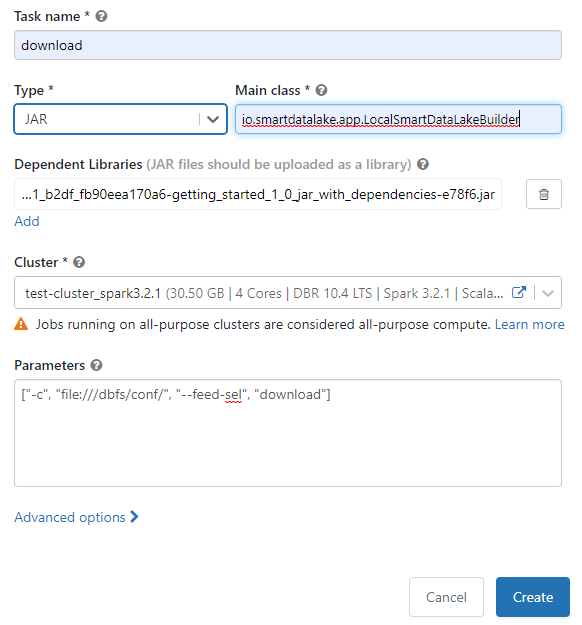
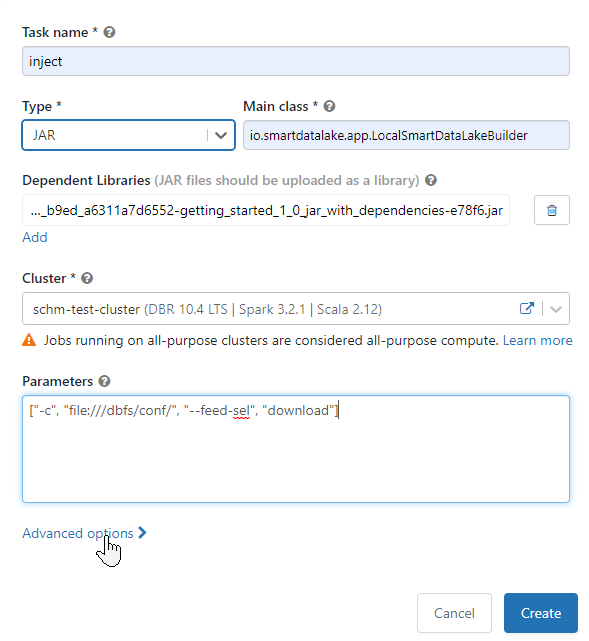
remove second job step

diff --git a/blog/2022-04-07-SDL_databricks/2022-04-07-Databricks.md b/blog/2022-04-07-SDL_databricks/2022-04-07-Databricks.md
@@ -17,7 +17,7 @@ In this article the deployment of SmartDataLakeBuilder (SDLB) on [Databricks](ht
 <!--truncate-->
 
 Before jumping in, it should be mentioned, that there are also many other methods to deploy SDLB in the cloud, e.g. using containers on Azure, Azure Kubernetes Service, Azure Synapse Clusters, ...
-The present method provides the advantage of **not** needing to deal with the storage and all related configurations, by using Databricks. 
+With Databricks we can easily create a Workspace and have a variety of functions available, and do **not** need to deal with all Azure related configurations. 
 Further, the presented SDLB pipeline is just a simple example, focusing on the implementation into Databricks environment. SDLB provide a wide range of features and its full power is not revealed here. 
 
 Let's get started:
@@ -71,6 +71,7 @@ Let's get started:
 	  }
 	  stg-ab {
 	    type = CsvFileDataObject
+	    schema = """id integer, name string, host_id integer, host_name string, neighbourhood_group string, neighbourhood string, latitude double, longitude double, room_type  string, price integer, minimum_nights integer, number_of_reviews integer, last_review timestamp, reviews_per_month double, calculated_host_listings_count integer,          availability_365 integer"""
 	    path = "file:///dbfs/data/~{id}"
 	  }
 	  int-ab {
@@ -78,7 +79,7 @@ Let's get started:
 	    path = "~{id}"
 	    table {
 	      db = "default"
-	      name = "stg_ab"
+	      name = "int_ab"
 	      primaryKey = [id]
 	    }
 	  }
@@ -114,9 +115,8 @@ Let's get started:
 	```
 
 1. **Job creation**:
-	Here, we did not want to specify the schema of the file, thus two job tasks are necessary, to automatically infer and validate the data scheme. The first job task downloads the data into a CSV file. The second one selects columns and stores data into the database. 
-	Each job step could perform multiple SDLB actions, here we have one action per job step.
-	Define the "download" task by *Jobs* -> *Create Job*: 
+	Here, the Databricks job gets defined, specifying the SDL library and, the entry point and the arguments. Here we specify only the download feed. 
+	Therefore, open in the sidebar *Jobs* -> *Create Job*: 
 	- **Type**: `JAR`
 	- **Main Class**: `io.smartdatalake.app.LocalSmartDataLakeBuilder`
 	- **add** *Dependent Libraries*: "Workspace" -> select the file previously uploaded "getting-started..." file in the "jars" directory
@@ -125,12 +125,9 @@ Let's get started:
 	- **Parameters**: `["-c", "file:///dbfs/conf/", "--feed-sel", "download"]`, which specifies the location of the SDLB configuration and selects the feed "download"
 	![download task](download_task.png)
 
-	Add a second job task (after creation, click the plus below) for the "copy" feed using the same specifications, but parameters `["-c", "file:///dbfs/conf/", "--feed-sel", "copy"]`
-	![download task](copy_task.png)
-
 1. **Launch** the job: 
-	When finished in the "Runs" in that job you should see the successful run status
-	![job status](job_status.png) 
+	Launch the job. 
+	When finished in the "Runs" section of that job we can verify the successful run status
 
 1. **Results**
 	After running the SDLB pipeline the data should be downloaded into the staging file and selected parts into the table `stg_ab:`
